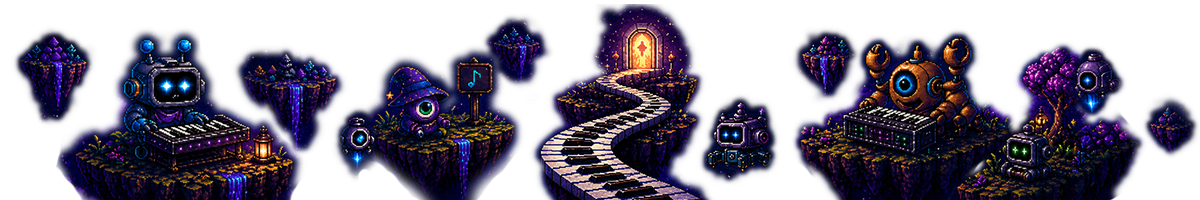
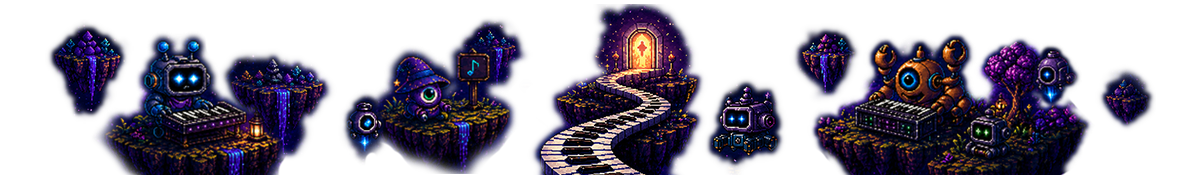
Refine dark theme hero and chord selector layout

diff --git a/style.css b/style.css
@@ -5575,8 +5575,8 @@ body.home-dashboard-page[data-page="piano-valley"][data-theme="dark"] .chord-dis
   }
 
   body.home-dashboard-page[data-page="piano-valley"][data-theme="dark"] .hero-image-frame {
-    height: clamp(9.6rem, 20svh, 12.5rem);
-    max-height: 21.5svh;
+    height: 175px;
+    max-height: 22svh;
     min-height: 0;
   }
 
@@ -5617,9 +5617,9 @@ body.home-dashboard-page[data-page="piano-valley"][data-theme="dark"] .chord-dis
     display: grid;
     grid-template-columns: minmax(0, 1fr) auto;
     align-items: end;
-    gap: 0.34rem 0.6rem;
-    min-height: clamp(10.2rem, 22svh, 11rem);
-    padding: 0.62rem 0.72rem 0.72rem;
+    gap: 0.42rem 0.72rem;
+    min-height: clamp(11.2rem, 25svh, 12.35rem);
+    padding: 0.84rem 0.82rem 0.78rem;
     background:
       linear-gradient(180deg, rgba(15, 20, 39, 0.96), rgba(4, 7, 16, 0.98)),
       var(--pv-panel);
@@ -6337,8 +6337,8 @@ body.home-dashboard-page[data-page="piano-valley"][data-theme="dark"] .chord-lef
 }
 
 body.home-dashboard-page[data-page="piano-valley"][data-theme="dark"] .hero-image-frame {
-  aspect-ratio: 6 / 1;
-  height: auto;
+  aspect-ratio: 48 / 7;
+  height: 175px;
   max-height: none;
   border: 0;
   background: transparent;
@@ -6354,6 +6354,7 @@ body.home-dashboard-page[data-page="piano-valley"][data-theme="dark"] .hero-imag
 
 body.home-dashboard-page[data-page="piano-valley"][data-theme="dark"] .hero-section {
   border: 0;
+  padding: 0;
   background: transparent;
   box-shadow: none;
   clip-path: none;
@@ -6366,6 +6367,10 @@ body.home-dashboard-page[data-page="piano-valley"][data-theme="dark"] .hero-sect
 
 body.home-dashboard-page[data-page="piano-valley"][data-theme="dark"] .app-shell::before {
   display: none;
+}
+
+body.home-dashboard-page[data-page="piano-valley"][data-theme="dark"] main {
+  gap: 0;
 }
 
 body.home-dashboard-page[data-page="piano-valley"][data-theme="dark"] .chord-workspace {
@@ -6501,6 +6506,29 @@ body.home-dashboard-page[data-page="piano-valley"][data-theme="dark"] .selector-
   background-size: 100% 100%;
   clip-path: none;
   animation: none;
+}
+
+body.home-dashboard-page[data-page="piano-valley"][data-theme="dark"] .selector-panel-kicker {
+  margin: 0 0 0.2rem;
+  color: #fff;
+  font-family: "Anaheim", Arial, Helvetica, sans-serif;
+  font-size: 0.82rem;
+  font-weight: 700;
+  letter-spacing: 0.04em;
+  line-height: 1;
+  text-transform: uppercase;
+}
+
+body.home-dashboard-page[data-page="piano-valley"][data-theme="dark"] .selector-panel .root-selector .root-menu button {
+  flex-basis: 4rem;
+  width: 4rem;
+  min-width: 4rem;
+}
+
+body.home-dashboard-page[data-page="piano-valley"][data-theme="dark"] .selector-panel .root-menu button,
+body.home-dashboard-page[data-page="piano-valley"][data-theme="dark"] .selector-panel .category-tabs button,
+body.home-dashboard-page[data-page="piano-valley"][data-theme="dark"] .selector-panel .type-menu button {
+  font-size: 1rem;
 }
 
 body.home-dashboard-page[data-page="piano-valley"][data-theme="dark"] .selector-panel::after {

diff --git a/index.html b/index.html
@@ -57,7 +57,7 @@
             sizes="(max-width: 700px) 100vw, 1400px"
             alt="Pixel-art Piano scene with floating islands, robots, and a piano path."
             width="1200"
-            height="200"
+            height="175"
             fetchpriority="high"
           >
         </div>
@@ -66,6 +66,7 @@
       <section id="major-chords" class="chord-workspace" aria-label="Chord builder" data-major-chord-page data-chord-quality="Major" data-fallback-root="C">
         <div class="selector-panel">
           <div class="selector-group root-selector">
+            <p class="selector-panel-kicker">CHORDS MATRIX</p>
             <p class="selector-label">Root note</p>
             <div class="root-menu root-menu-centered" role="group" aria-label="Choose chord root note" data-chord-root-menu>
               <button class="is-active" type="button" data-chord-root="C" aria-pressed="true">C</button>